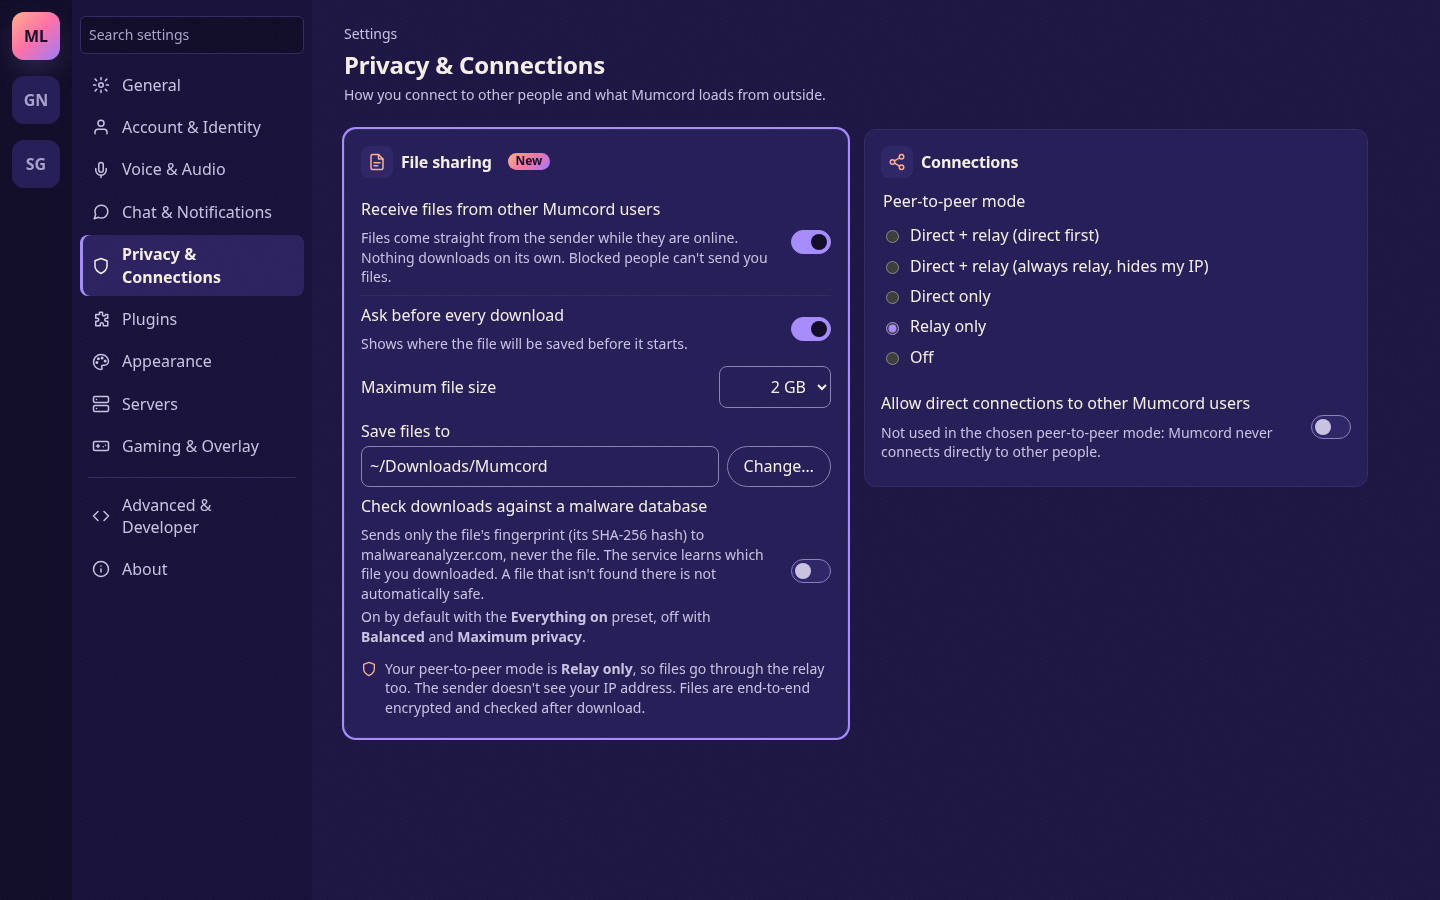
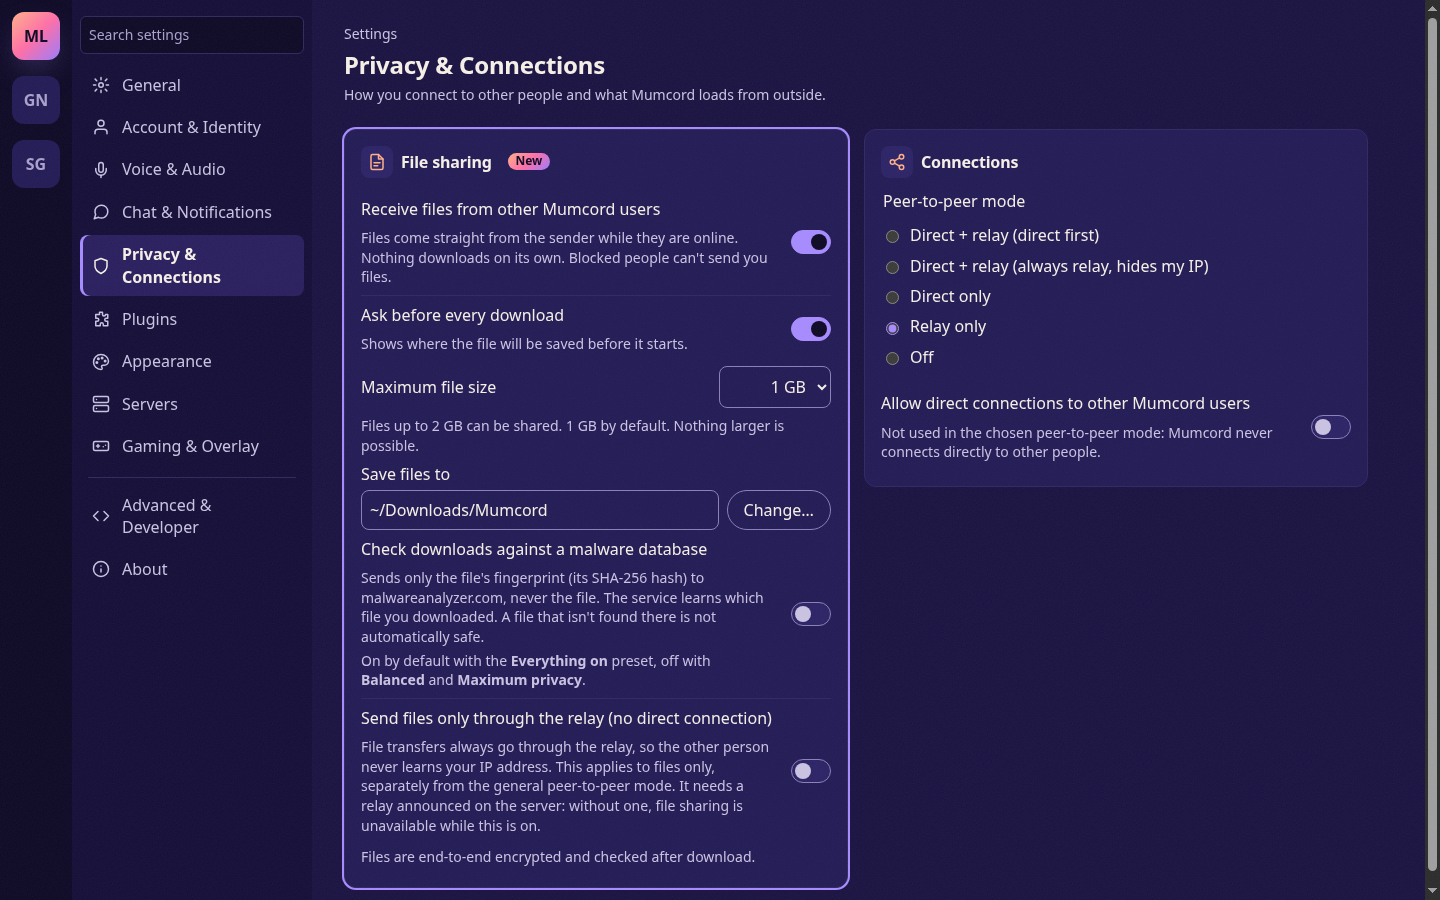
docs: update Epic 4.1 file sharing settings mockup

Changed region(s): [[0.25, 0.4667, 0.5938, 0.9956], [0.9688, 0.0, 1.0, 0.9644], [0.5312, 0.8089, 0.5938, 0.8711]]

diff --git a/docs/mockups/epic-4.1/08-settings-file-sharing.html b/docs/mockups/epic-4.1/08-settings-file-sharing.html
@@ -38,11 +38,13 @@
 <div class="settings-switch"><div class="settings-switch__text"><label>Receive files from other Mumcord users</label><p class="settings-switch__status settings-hint">Files come straight from the sender while they are online. Nothing downloads on its own. Blocked people can't send you files.</p></div><input type="checkbox" role="switch" class="settings-switch__input" checked aria-label="Receive files from other Mumcord users"></div>
 <div class="settings-switch"><div class="settings-switch__text"><label>Ask before every download</label><p class="settings-switch__status settings-hint">Shows where the file will be saved before it starts.</p></div><input type="checkbox" role="switch" class="settings-switch__input" checked aria-label="Ask before every download"></div>
 <div class="settings-control-row"><label class="settings-control-row__label" for="max">Maximum file size</label>
-  <select id="max" class="settings-input settings-input--compact"><option>2 GB</option></select></div>
+  <select id="max" class="settings-input settings-input--compact" aria-describedby="max-hint"><option>100 MB</option><option>500 MB</option><option selected>1 GB</option><option>2 GB</option></select></div>
+<p id="max-hint" class="settings-hint">Files up to 2 GB can be shared. 1 GB by default. Nothing larger is possible.</p>
 <label class="settings-field" for="folder">Save files to</label>
 <div class="mock-folder"><input id="folder" class="settings-input" value="~/Downloads/Mumcord" readonly><button type="button" class="settings-button">Change…</button></div>
 <div class="settings-switch"><div class="settings-switch__text"><label>Check downloads against a malware database</label><p class="settings-switch__status settings-hint">Sends only the file's fingerprint (its SHA-256 hash) to malwareanalyzer.com, never the file. The service learns which file you downloaded. A file that isn't found there is not automatically safe.<span class="mock-switch-default">On by default with the <strong>Everything on</strong> preset, off with <strong>Balanced</strong> and <strong>Maximum privacy</strong>.</span></p></div><input type="checkbox" role="switch" class="settings-switch__input" aria-label="Check downloads against a malware database"></div>
-<p class="settings-hint mock-relay-note"><svg viewBox="0 0 24 24" width="16" height="16" aria-hidden="true" fill="none" stroke="currentColor" stroke-width="2" stroke-linecap="round" stroke-linejoin="round"><path d="M12 22s8-4 8-10V5l-8-3-8 3v7c0 6 8 10 8 10z"/></svg><span>Your peer-to-peer mode is <strong>Relay only</strong>, so files go through the relay too. The sender doesn't see your IP address. Files are end-to-end encrypted and checked after download.</span></p>
+<div class="settings-switch"><div class="settings-switch__text"><label>Send files only through the relay (no direct connection)</label><p class="settings-switch__status settings-hint">File transfers always go through the relay, so the other person never learns your IP address. This applies to files only, separately from the general peer-to-peer mode. It needs a relay announced on the server: without one, file sharing is unavailable while this is on.</p></div><input type="checkbox" role="switch" class="settings-switch__input" aria-label="Send files only through the relay (no direct connection)"></div>
+<p class="settings-hint">Files are end-to-end encrypted and checked after download.</p>
 </section><section class="settings-group"><div class="settings-group__head"><span class="settings-group__icon"><svg class="settings-icon" viewBox="0 0 24 24" width="18" height="18" fill="none" stroke="currentColor" stroke-width="2" stroke-linecap="round" stroke-linejoin="round" aria-hidden="true"><circle cx="18" cy="5" r="3"/><circle cx="6" cy="12" r="3"/><circle cx="18" cy="19" r="3"/><path d="m8.6 13.5 6.8 4M15.4 6.5l-6.8 4"/></svg></span><h3 class="settings-group__title">Connections</h3></div><fieldset class="settings-radios"><legend class="settings-radios__legend"><span>Peer-to-peer mode</span></legend><div class="settings-radios__row"><label class="settings-radios__option"><input type="radio" name="p2p"> Direct + relay (direct first)</label></div><div class="settings-radios__row"><label class="settings-radios__option"><input type="radio" name="p2p"> Direct + relay (always relay, hides my IP)</label></div><div class="settings-radios__row"><label class="settings-radios__option"><input type="radio" name="p2p"> Direct only</label></div><div class="settings-radios__row"><label class="settings-radios__option"><input type="radio" name="p2p" checked> Relay only</label></div><div class="settings-radios__row"><label class="settings-radios__option"><input type="radio" name="p2p"> Off</label></div></fieldset><div class="settings-switch"><div class="settings-switch__text"><label>Allow direct connections to other Mumcord users</label><p class="settings-switch__status settings-hint">Not used in the chosen peer-to-peer mode: Mumcord never connects directly to other people.</p></div><input type="checkbox" role="switch" class="settings-switch__input" aria-label="Allow direct connections to other Mumcord users"></div></section></div>
   </div>
 </div></div>
